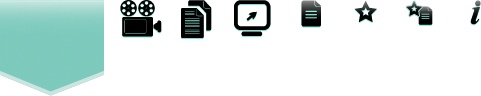
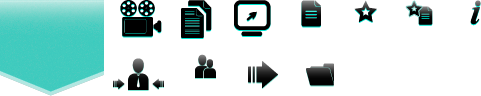
makeup colleagues

diff --git a/app/assets/stylesheets/main.css.scss b/app/assets/stylesheets/main.css.scss
@@ -134,7 +134,7 @@ h3 {
   position: relative;
 }
 
-#general-links {
+.b-general-links {
   background: #fff;
   border-bottom: 1px solid #70a99a;
   .container {
@@ -245,6 +245,24 @@ section {
       &.paiments-info span{
         background-position: -451px 4px;
         height: 30px;
+      }
+      
+      &.followers span {
+        background-position: -112px -51px;    
+        width: 52px;
+      }
+      
+      &.published-together span{
+        background-position: -181px -51px;
+        height: 30px;
+      }
+      
+      &.following span{
+        background-position: -236px -51px;        
+      }
+      
+      &.patients span{
+        background-position: -296px -51px;        
       }
       
       &.selected {
@@ -577,7 +595,7 @@ footer {
       font-weight: bold;
     }
     
-    &.go-to-profile, &.folow-item, &.go-to-article, &.make-pdf {
+    &.go-to-profile, &.follow-item, &.go-to-article, &.make-pdf {
       margin-left: 3px;
       -webkit-border-radius: 7px;
       -moz-border-radius: 7px;
@@ -709,7 +727,7 @@ footer {
         margin-left: 7px;
         width: 28px;
       }
-      &.folow-item {
+      &.follow-item {
         width: 109px;
       }
       &.go-to-article {

diff --git a/app/assets/stylesheets/pages.css.scss b/app/assets/stylesheets/pages.css.scss
@@ -332,6 +332,16 @@
     padding: 12px 40px 12px 20px;
   }
   
+  .light-button.send-message {
+    float: right;
+    margin: 13px 10px 0 0;
+    padding: 6px 5px 6px 15px;
+    position: absolute;
+    right: 10px;
+    top: -38px;
+    width: 262px;
+  }
+  
   .navigation {
     height: 34px;
     padding-left: 6px;
@@ -837,7 +847,7 @@
 
 .b-sign-in {
   background: url("/assets/sign-in-bg.png") repeat-x bottom center;
-  #general-links .container {
+  .b-general-links .container {
     border-bottom: 1px solid #24515b;
   }
   
@@ -1252,6 +1262,32 @@
       color: #1B1E26;
       background-position: 0 -60px;
     }
-  }   
-  
+  }  
+}
+.b-colleagues {
+  .b-colleagues-container{
+    padding: 10px 20px 10px 30px;
+    .b-colleagues-item {
+      display: block;
+      float: left;
+      height: 64px;
+      width: 140px;
+      color: #1b1e26;
+      text-decoration: none;
+      margin: 0 10px 25px 0;
+      
+      img {
+        border: 2px solid #ddd;
+        float: left;
+      }
+      
+      .title {
+        float: left;
+        font-size: 14px;
+        margin: 3px 0 0 7px;
+        overflow: hidden;
+        width: 68px;
+      }
+    }
+  }
 }

diff --git a/app/assets/stylesheets/normalize.css.scss b/app/assets/stylesheets/normalize.css.scss
@@ -4,7 +4,8 @@ article, aside, details, figcaption, figure, footer, header, hgroup, nav, sectio
 audio, canvas, video {
   display: inline-block;
   *display: inline;
-*zoom: 1; }
+  *zoom: 1; 
+}
 
 audio:not([controls]), [hidden] {
   display: none; }

diff --git a/config/routes.rb b/config/routes.rb
@@ -9,6 +9,7 @@ Orthodontic::Application.routes.draw do
   match "/account_purchased_item" => "pages#account_purchased_item"
   match "/user" => "pages#user"
   match "/settings" => "pages#settings"
+  match "/colleagues" => "pages#colleagues"
 
   resources :file, :only => [:index] do
     collection do

diff --git a/app/controllers/pages_controller.rb b/app/controllers/pages_controller.rb
@@ -27,4 +27,7 @@ class PagesController < ApplicationController
   
   def settings
   end
+  
+  def colleagues
+  end
 end
